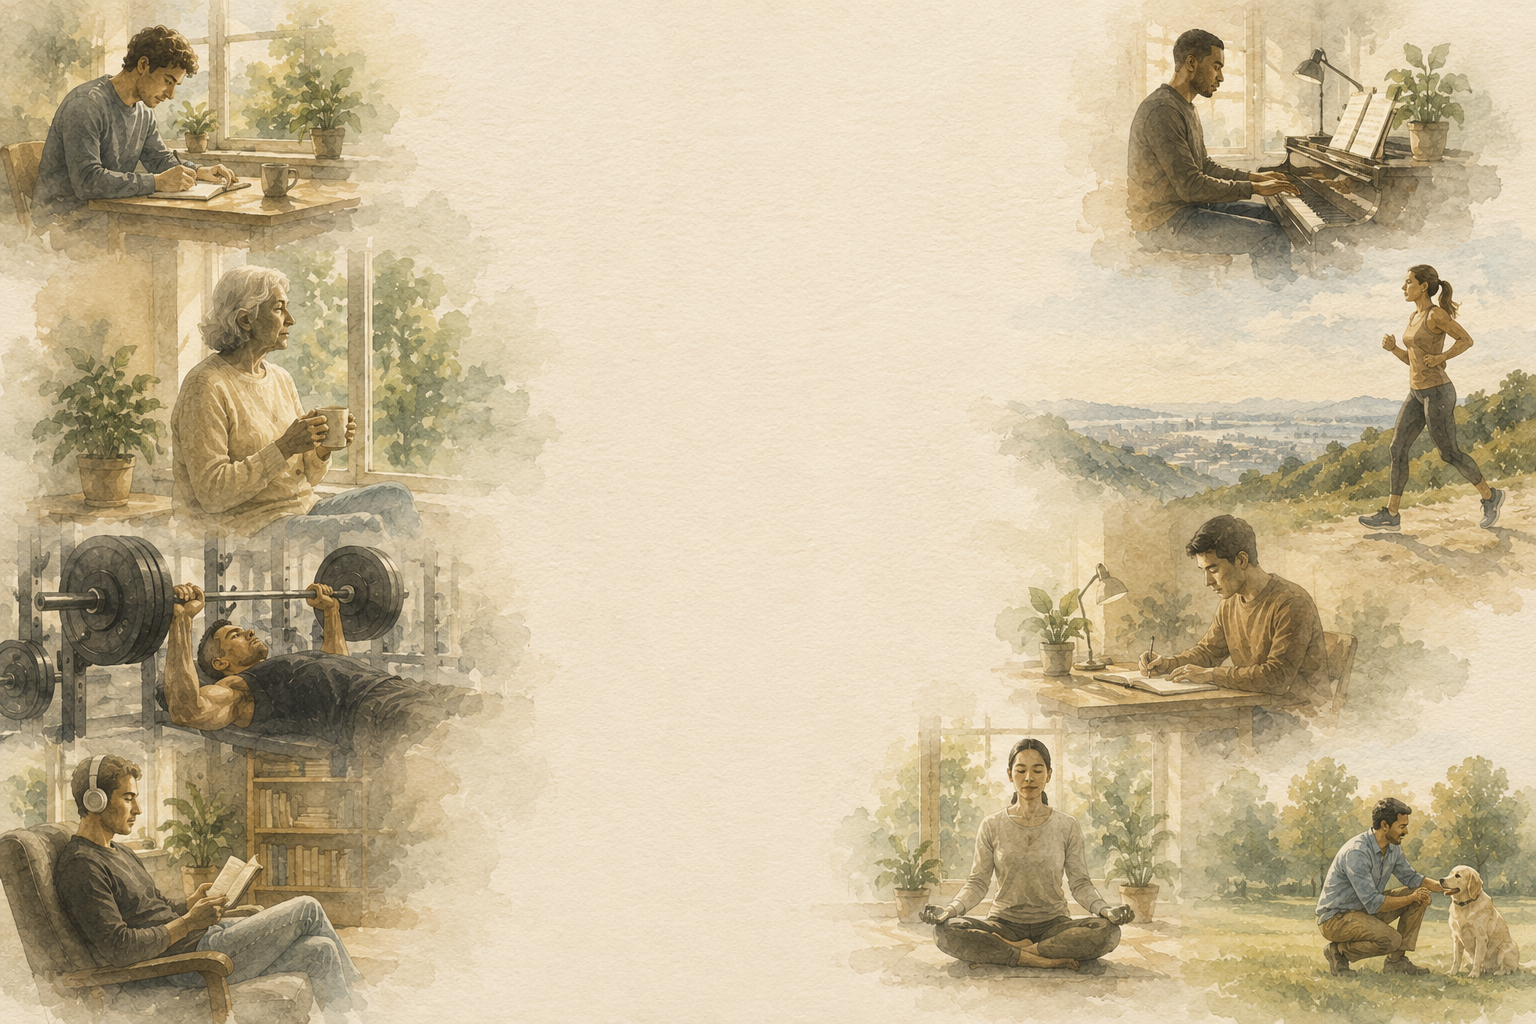
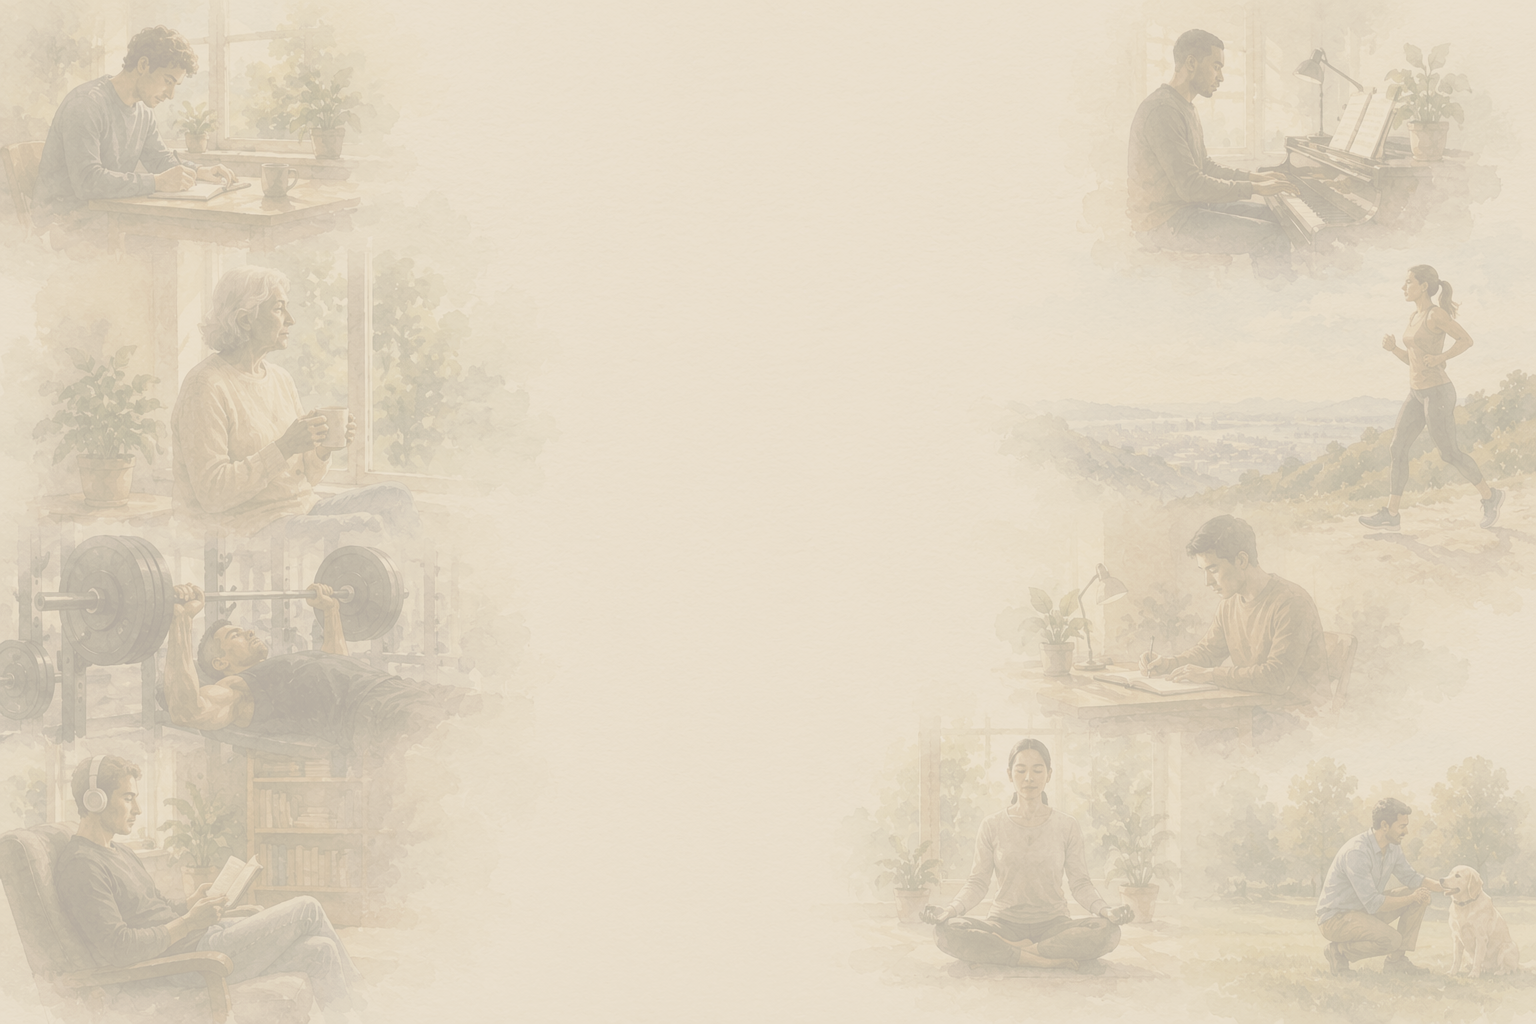
feat(web): swap hero backdrop to the faded collage at 70% opacity
Use the softer, more faded activity collage as the hero backdrop and render it on
a ::before layer at 70% opacity (background-image has no opacity property), so the
warm page tone shows through and the phone/text stay legible on top.

diff --git a/web/src/screens/landing.css b/web/src/screens/landing.css
@@ -64,14 +64,19 @@
   flex-direction: column;
   align-items: center;
   padding-top: clamp(92px, 12vh, 132px);
-  /* Hero backdrop: the activity collage, covered so it fills without stretching,
-     under a 10% --l-bg (#efe6d3) wash that warms + lightens it a touch. The phone
-     scene sits in the image's clean centre. */
-  background-image: linear-gradient(rgba(239, 230, 211, 0.1), rgba(239, 230, 211, 0.1)),
-    url("/hero_bg.png");
-  background-size: cover;
-  background-position: center;
-  background-repeat: no-repeat;
+}
+/* Hero backdrop: the activity collage at 70% opacity (covered so it fills without
+   stretching), letting the warm page tone show through. The phone sits in its
+   clean centre. On its own layer so we can dial the opacity (background-image
+   itself has no opacity property). */
+.lp-sticky::before {
+  content: "";
+  position: absolute;
+  inset: 0;
+  z-index: -1;
+  background: url("/hero_bg.png") center / cover no-repeat;
+  opacity: 0.7;
+  pointer-events: none;
 }
 
 /* The phone scene fills the space under the headline and scales as one unit. */